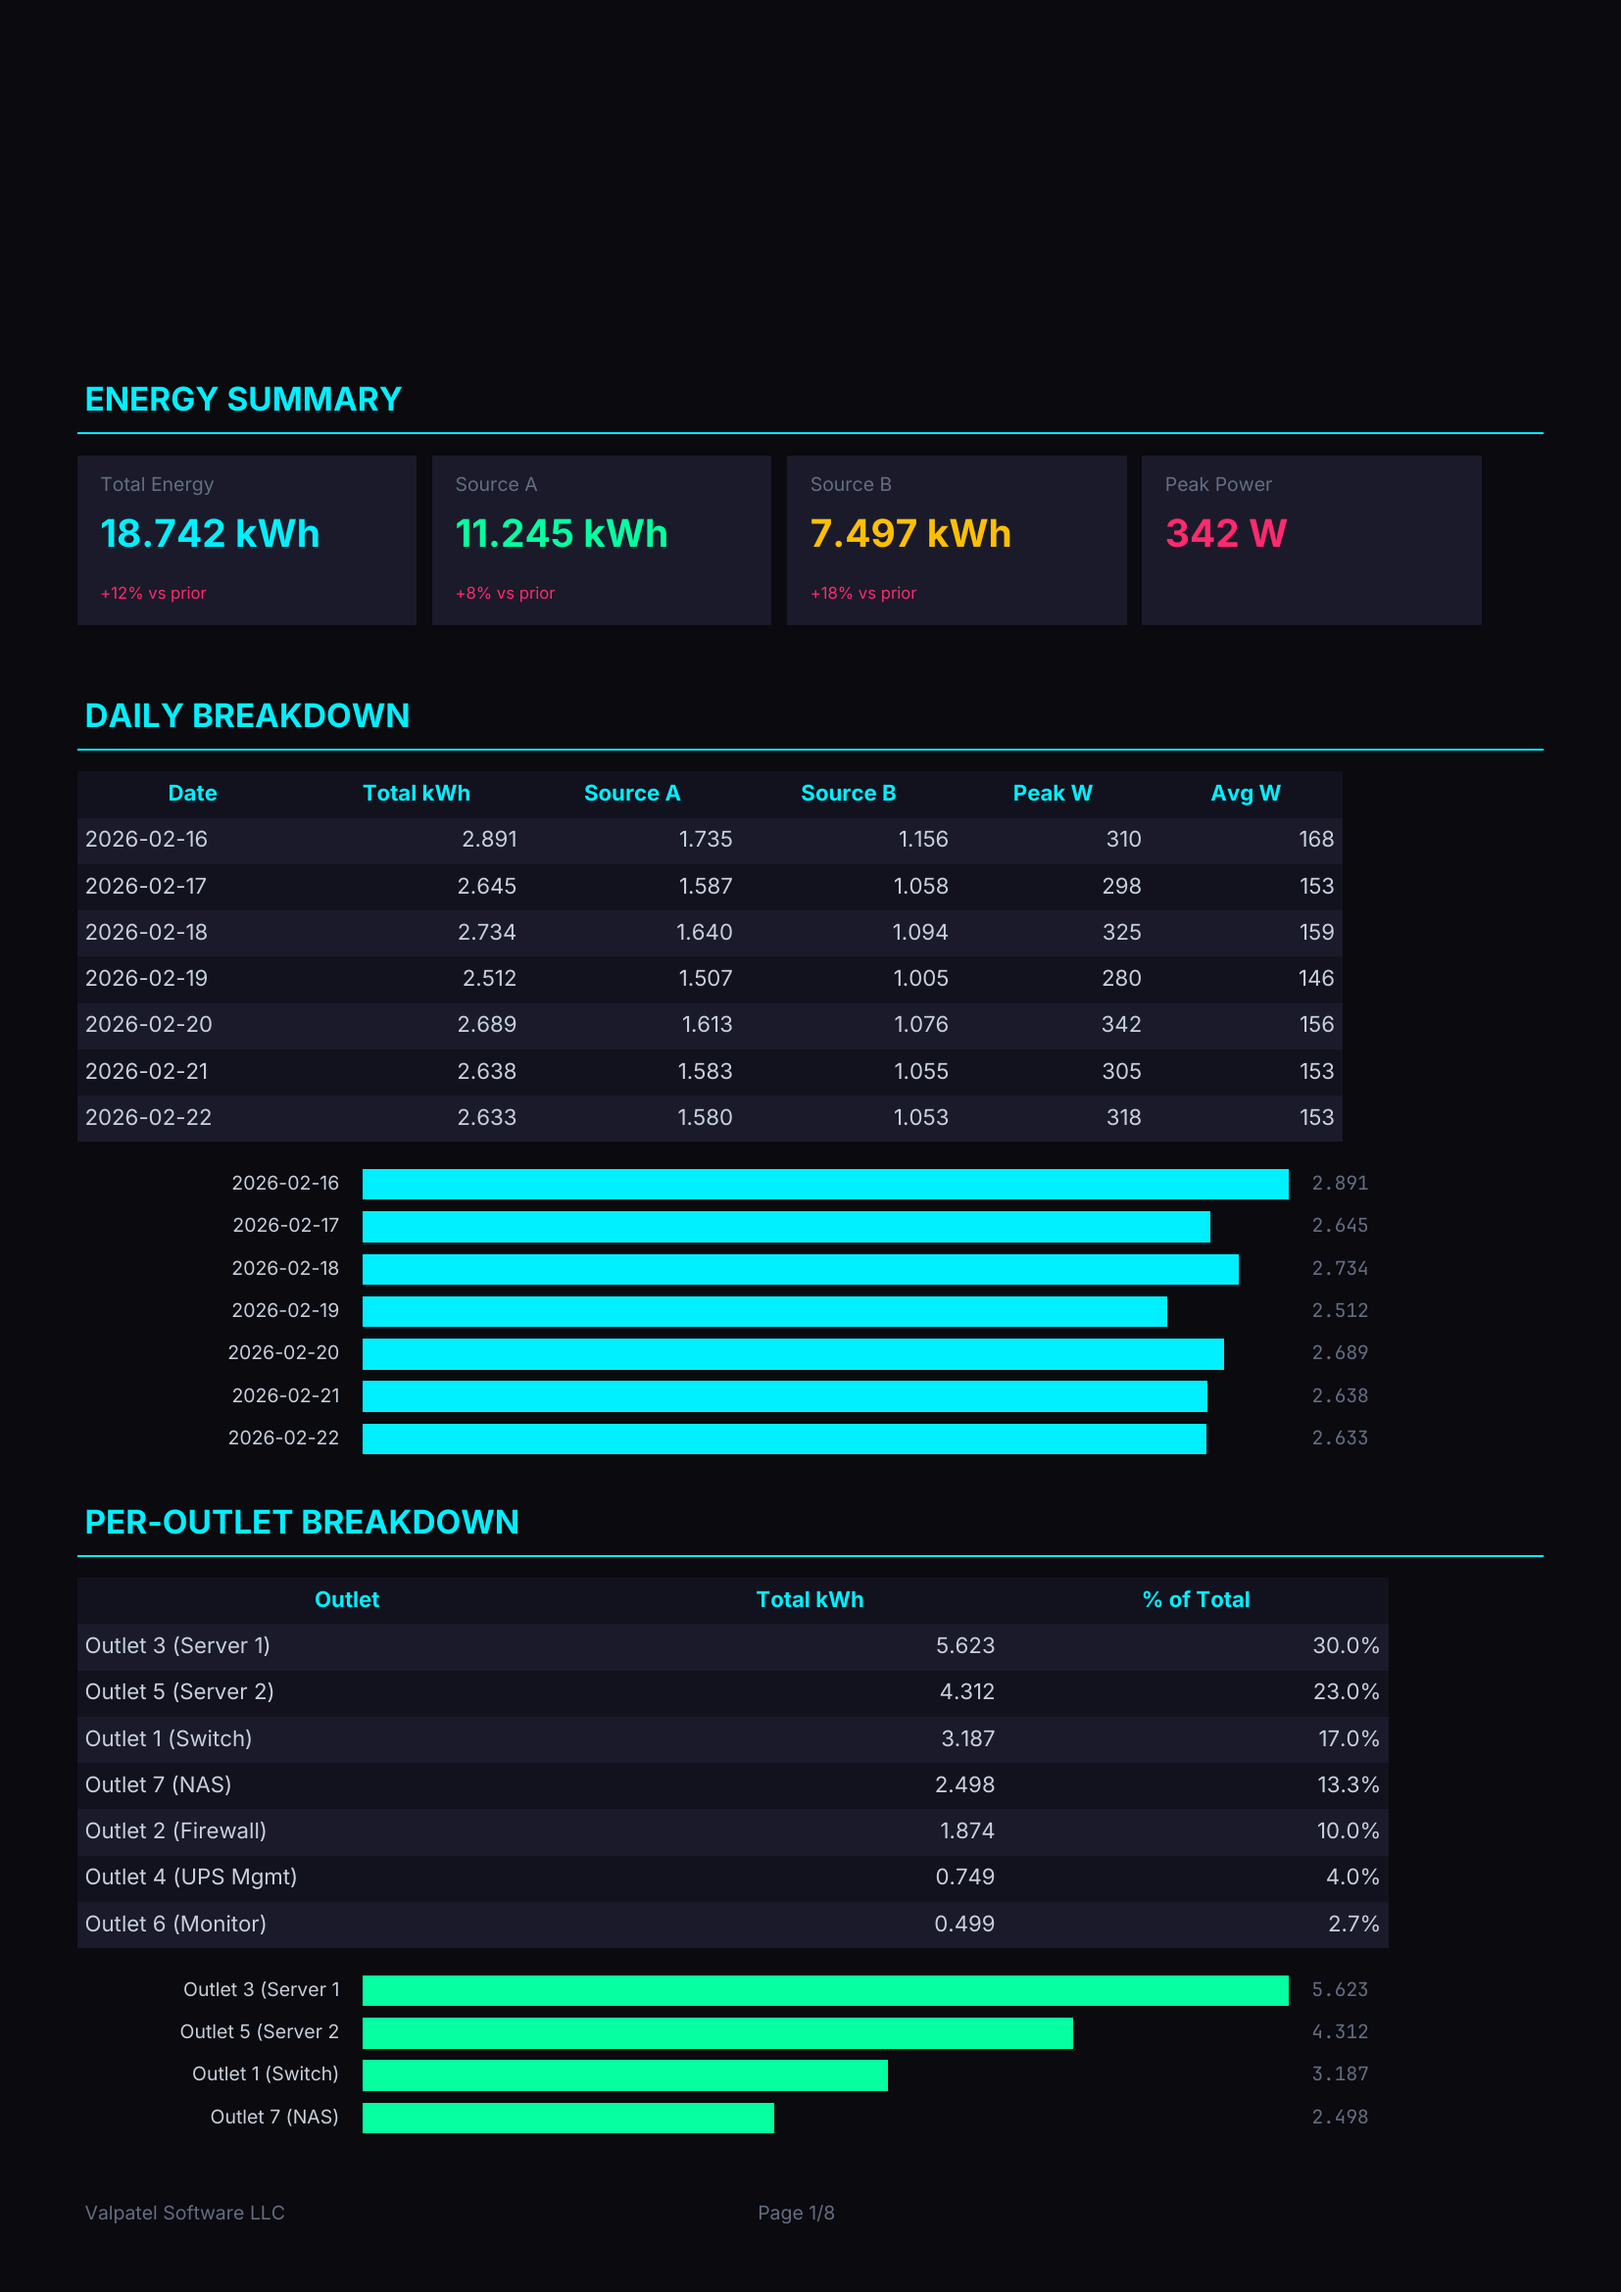
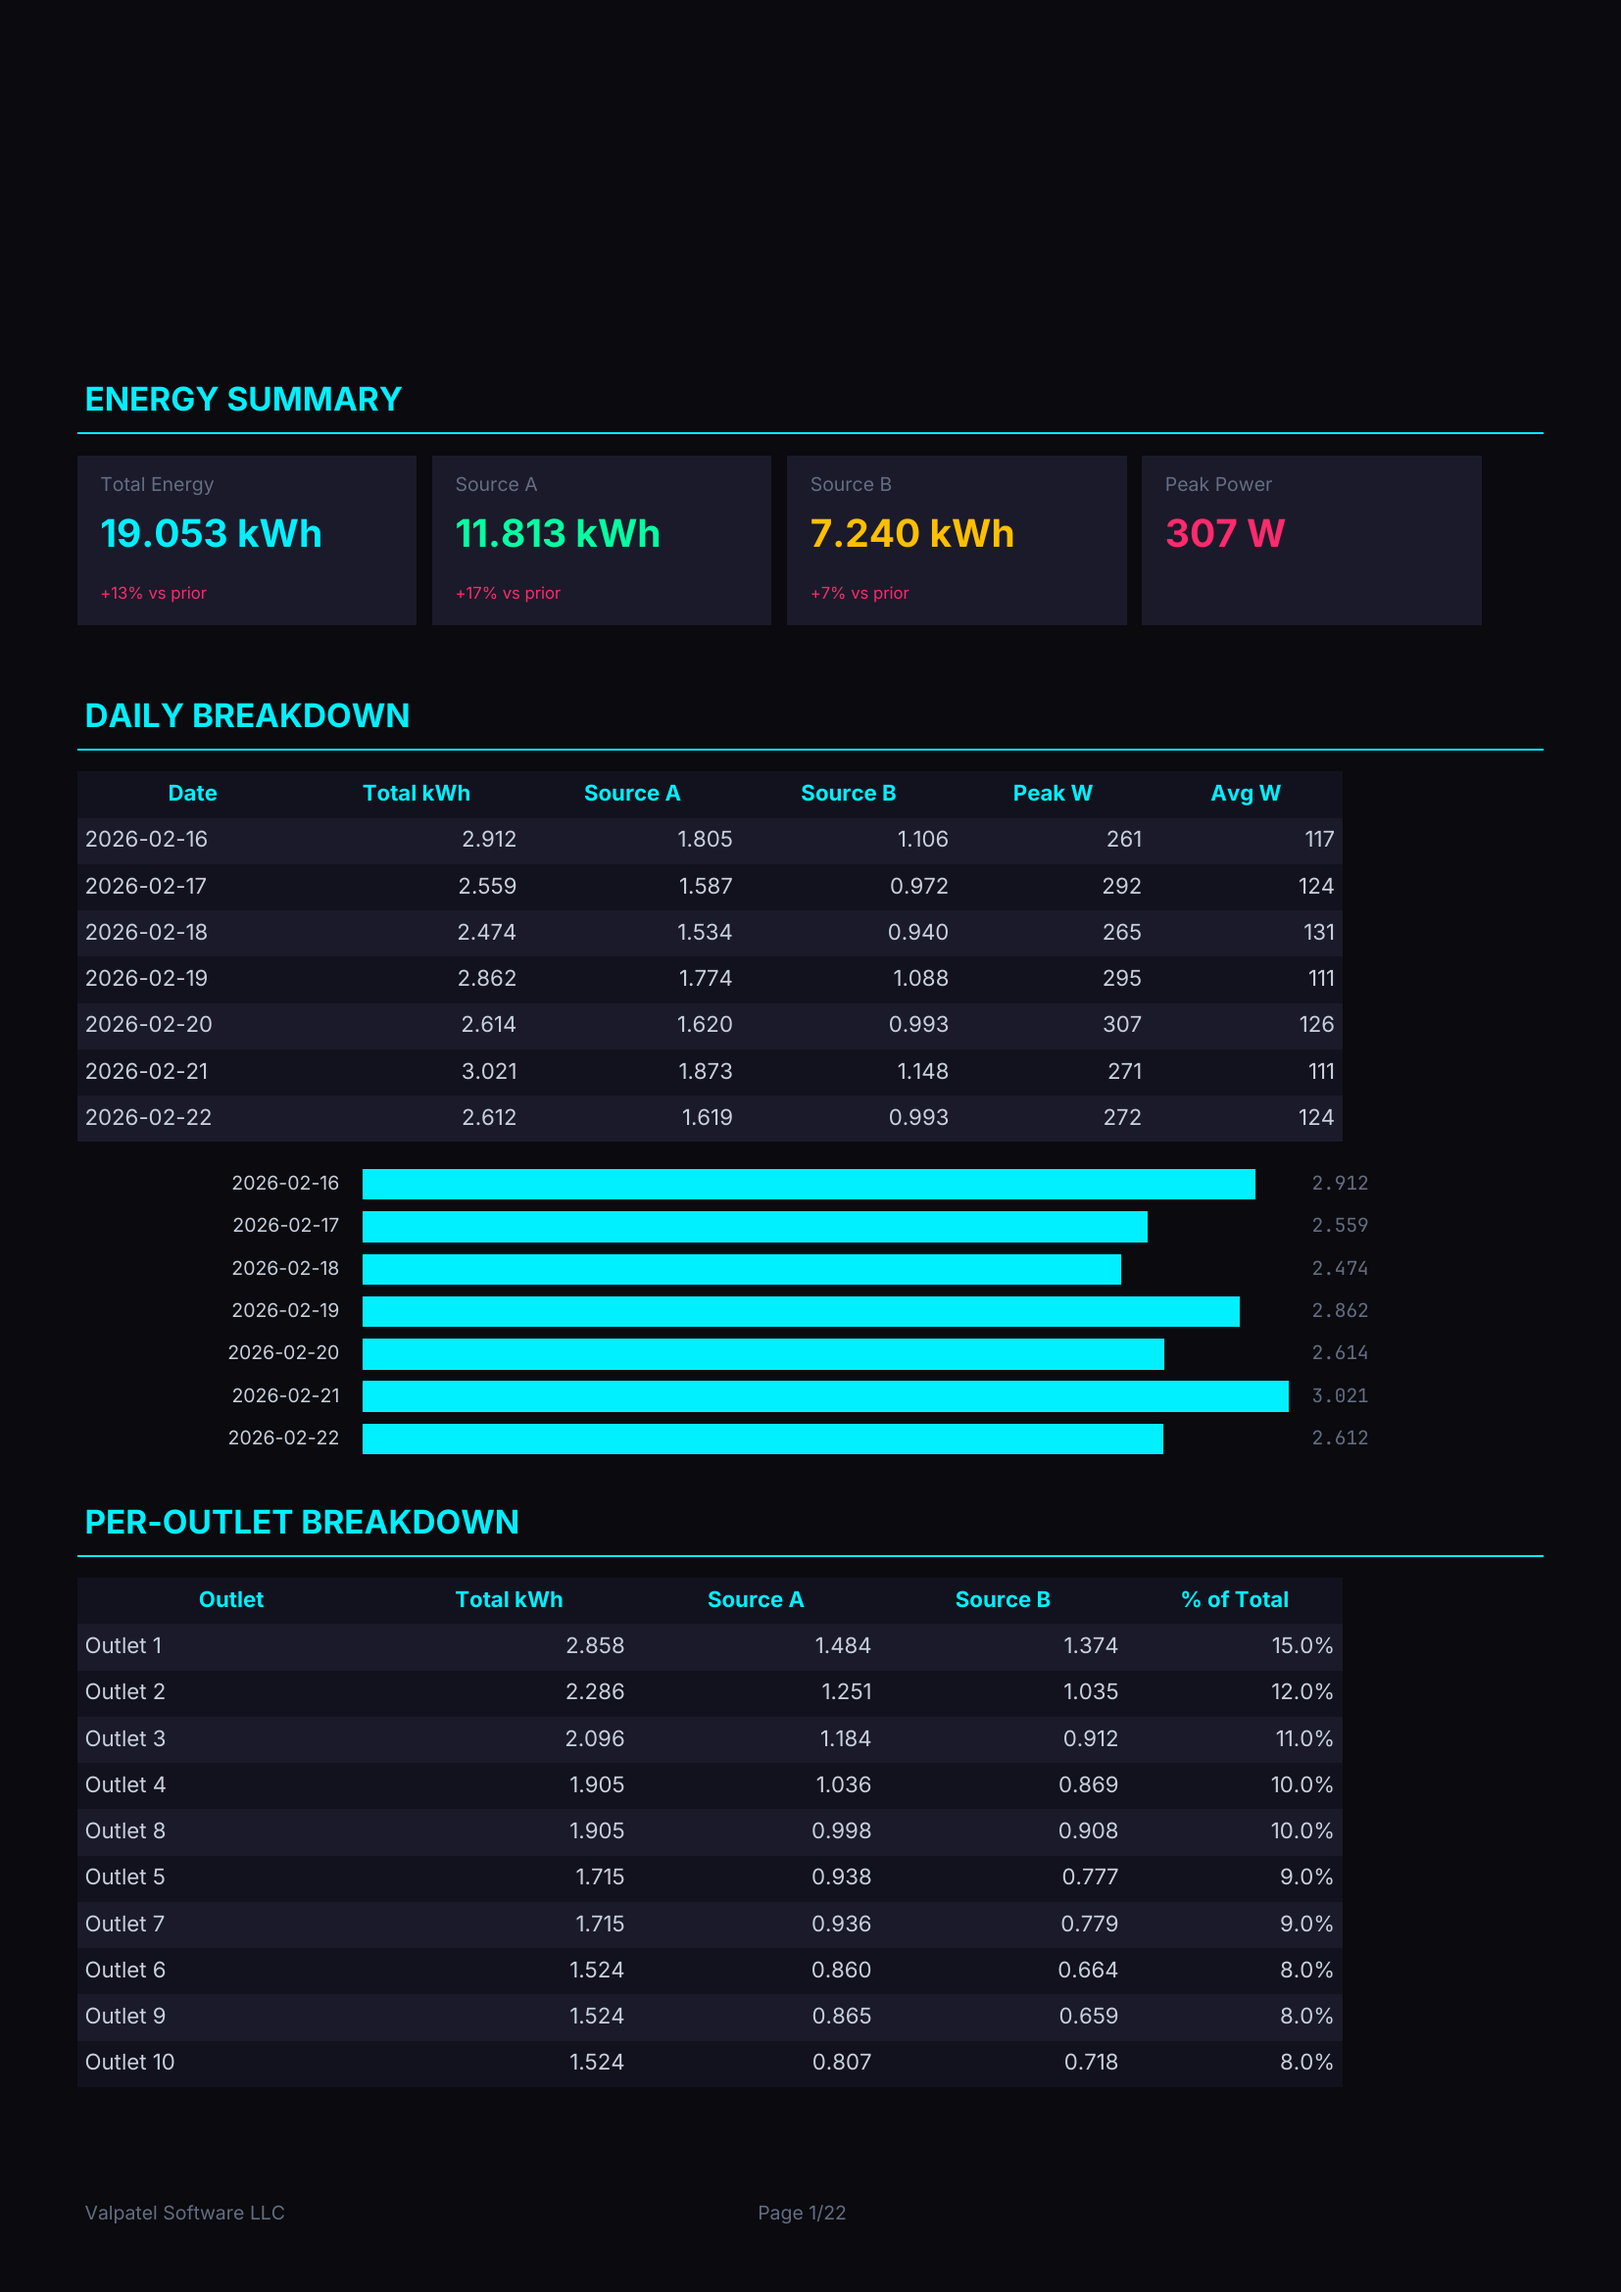
Add per-outlet source breakdown to PDF energy reports
Per-outlet table now shows Source A and Source B kWh columns alongside
the total, making it easy to see which power source each outlet draws from.
Updated sample report screenshot and added tests for the new helper.

diff --git a/bridge/src/report_generator.py b/bridge/src/report_generator.py
@@ -266,6 +266,22 @@ def _per_outlet_kwh(rows: list[dict]) -> dict[int, float]:
     return outlets
 
 
+def _per_outlet_source_kwh(rows: list[dict]) -> dict[int, dict[int, float]]:
+    """Get per-outlet kWh broken down by source.
+
+    Returns {outlet: {source: kwh}}, e.g. {1: {1: 0.6, 2: 0.4}}.
+    Only includes rows where both source and outlet are non-None.
+    """
+    result: dict[int, dict[int, float]] = {}
+    for r in rows:
+        src = r.get("source")
+        outlet = r.get("outlet")
+        if src is not None and outlet is not None:
+            result.setdefault(outlet, {})
+            result[outlet][src] = result[outlet].get(src, 0) + r["kwh"]
+    return result
+
+
 def _per_day_kwh(rows: list[dict]) -> dict[str, float]:
     """Get per-day total kWh (source=NULL, outlet=NULL)."""
     days: dict[str, float] = {}
@@ -358,6 +374,7 @@ def generate_weekly_report(
     source_b = _sum_source_kwh(rows, 2)
     daily_totals = _per_day_kwh(rows)
     outlet_totals = _per_outlet_kwh(rows)
+    outlet_by_source = _per_outlet_source_kwh(rows)
     daily_a = _per_day_source_kwh(rows, 1)
     daily_b = _per_day_source_kwh(rows, 2)
 
@@ -422,16 +439,23 @@ def generate_weekly_report(
     chart_data = [(d, kwh) for d, kwh in sorted(daily_totals.items())]
     pdf.bar_chart(chart_data, COLOR_CYAN)
 
-    # --- Per-Outlet Breakdown ---
+    # --- Per-Outlet Breakdown (by source) ---
     if outlet_totals:
         pdf.section_title("Per-Outlet Breakdown")
         sorted_outlets = sorted(outlet_totals.items(), key=lambda x: x[1], reverse=True)
-        outlet_headers = ["Outlet", "Total kWh", "% of Total"]
+        outlet_headers = ["Outlet", "Total kWh", "Source A", "Source B", "% of Total"]
         outlet_rows = []
         for num, kwh in sorted_outlets:
             pct = (kwh / total_kwh * 100) if total_kwh > 0 else 0
-            outlet_rows.append([f"Outlet {num}", f"{kwh:.3f}", f"{pct:.1f}%"])
-        pdf.data_table(outlet_headers, outlet_rows, [50, 60, 60])
+            src = outlet_by_source.get(num, {})
+            outlet_rows.append([
+                f"Outlet {num}",
+                f"{kwh:.3f}",
+                f"{src.get(1, 0):.3f}",
+                f"{src.get(2, 0):.3f}",
+                f"{pct:.1f}%",
+            ])
+        pdf.data_table(outlet_headers, outlet_rows, [40, 32, 32, 32, 28])
 
         # Outlet chart
         pdf.ln(3)
@@ -522,6 +546,7 @@ def generate_monthly_report(
     source_b = _sum_source_kwh(rows, 2)
     daily_totals = _per_day_kwh(rows)
     outlet_totals = _per_outlet_kwh(rows)
+    outlet_by_source = _per_outlet_source_kwh(rows)
     daily_a = _per_day_source_kwh(rows, 1)
     daily_b = _per_day_source_kwh(rows, 2)
 
@@ -586,16 +611,23 @@ def generate_monthly_report(
         chart_data = [(d[-5:], kwh) for d, kwh in sorted(daily_totals.items())]
         pdf.bar_chart(chart_data, COLOR_CYAN)
 
-    # --- Per-Outlet Breakdown ---
+    # --- Per-Outlet Breakdown (by source) ---
     if outlet_totals:
         pdf.section_title("Per-Outlet Breakdown")
         sorted_outlets = sorted(outlet_totals.items(), key=lambda x: x[1], reverse=True)
-        outlet_headers = ["Outlet", "Total kWh", "% of Total"]
+        outlet_headers = ["Outlet", "Total kWh", "Source A", "Source B", "% of Total"]
         outlet_rows = []
         for num, kwh in sorted_outlets:
             pct = (kwh / total_kwh * 100) if total_kwh > 0 else 0
-            outlet_rows.append([f"Outlet {num}", f"{kwh:.3f}", f"{pct:.1f}%"])
-        pdf.data_table(outlet_headers, outlet_rows, [50, 60, 60])
+            src = outlet_by_source.get(num, {})
+            outlet_rows.append([
+                f"Outlet {num}",
+                f"{kwh:.3f}",
+                f"{src.get(1, 0):.3f}",
+                f"{src.get(2, 0):.3f}",
+                f"{pct:.1f}%",
+            ])
+        pdf.data_table(outlet_headers, outlet_rows, [40, 32, 32, 32, 28])
 
         pdf.ln(3)
         outlet_chart = [(f"Outlet {n}", kwh) for n, kwh in sorted_outlets[:16]]

diff --git a/tests/test_report_generator.py b/tests/test_report_generator.py
@@ -22,6 +22,7 @@ from bridge.src.report_generator import (
     _per_day_kwh,
     _per_day_source_kwh,
     _per_outlet_kwh,
+    _per_outlet_source_kwh,
     _sum_source_kwh,
     _sum_total_kwh,
     generate_monthly_report,
@@ -61,10 +62,30 @@ def _make_daily_rows(start_date: str, days: int, base_kwh: float = 1.0):
             "date": date, "device_id": "pdu-1", "source": None, "outlet": 1,
             "kwh": base_kwh * 0.3, "peak_power_w": 80.0, "avg_power_w": 40.0, "samples": 86400,
         })
+        # Outlet 1 source A
+        rows.append({
+            "date": date, "device_id": "pdu-1", "source": 1, "outlet": 1,
+            "kwh": base_kwh * 0.18, "peak_power_w": 50.0, "avg_power_w": 25.0, "samples": 50000,
+        })
+        # Outlet 1 source B
+        rows.append({
+            "date": date, "device_id": "pdu-1", "source": 2, "outlet": 1,
+            "kwh": base_kwh * 0.12, "peak_power_w": 40.0, "avg_power_w": 20.0, "samples": 36000,
+        })
         # Outlet 2 total
         rows.append({
             "date": date, "device_id": "pdu-1", "source": None, "outlet": 2,
             "kwh": base_kwh * 0.7, "peak_power_w": 150.0, "avg_power_w": 80.0, "samples": 86400,
+        })
+        # Outlet 2 source A
+        rows.append({
+            "date": date, "device_id": "pdu-1", "source": 1, "outlet": 2,
+            "kwh": base_kwh * 0.42, "peak_power_w": 100.0, "avg_power_w": 55.0, "samples": 50000,
+        })
+        # Outlet 2 source B
+        rows.append({
+            "date": date, "device_id": "pdu-1", "source": 2, "outlet": 2,
+            "kwh": base_kwh * 0.28, "peak_power_w": 60.0, "avg_power_w": 30.0, "samples": 36000,
         })
     return rows
 
@@ -147,6 +168,21 @@ class TestSumHelpers:
         assert 2 in outlets
         assert outlets[1] == pytest.approx(2.1, abs=0.001)
         assert outlets[2] == pytest.approx(4.9, abs=0.001)
+
+    def test_per_outlet_source_kwh(self):
+        rows = _make_daily_rows("2026-02-16", 7)
+        by_source = _per_outlet_source_kwh(rows)
+        assert 1 in by_source
+        assert 2 in by_source
+        # Outlet 1: 7 * 0.18 = 1.26 from source A, 7 * 0.12 = 0.84 from source B
+        assert by_source[1][1] == pytest.approx(1.26, abs=0.001)
+        assert by_source[1][2] == pytest.approx(0.84, abs=0.001)
+        # Outlet 2: 7 * 0.42 = 2.94 from source A, 7 * 0.28 = 1.96 from source B
+        assert by_source[2][1] == pytest.approx(2.94, abs=0.001)
+        assert by_source[2][2] == pytest.approx(1.96, abs=0.001)
+
+    def test_per_outlet_source_kwh_empty(self):
+        assert _per_outlet_source_kwh([]) == {}
 
     def test_per_day_kwh(self):
         rows = _make_daily_rows("2026-02-16", 3)
